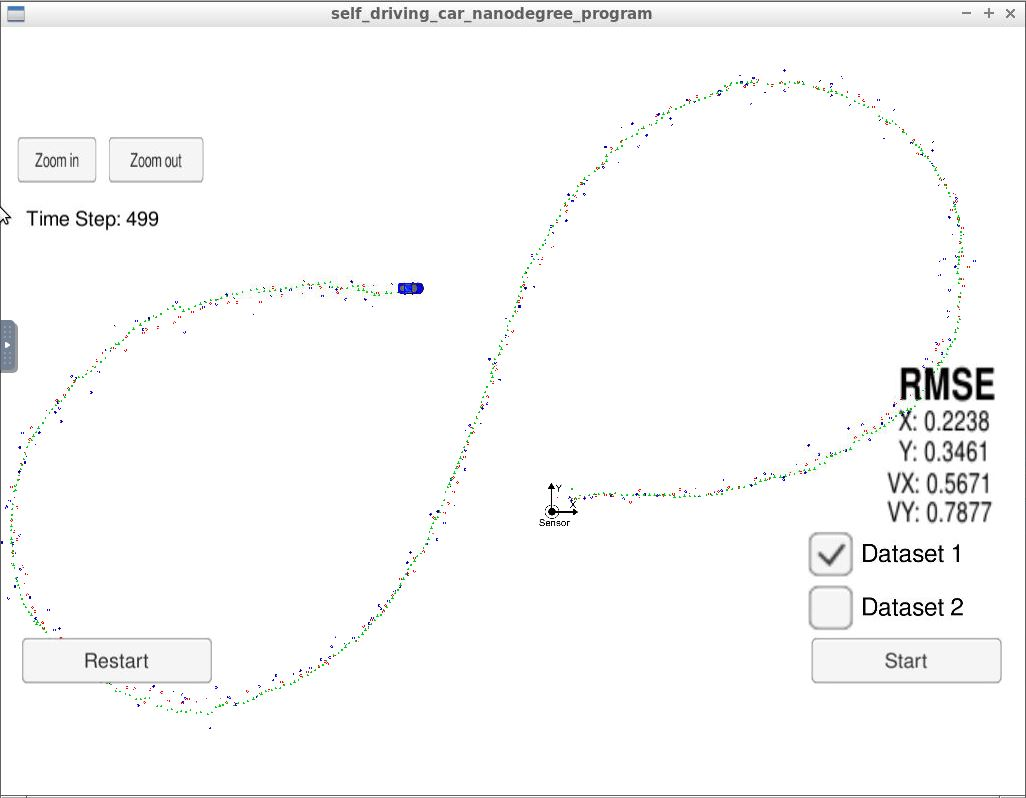
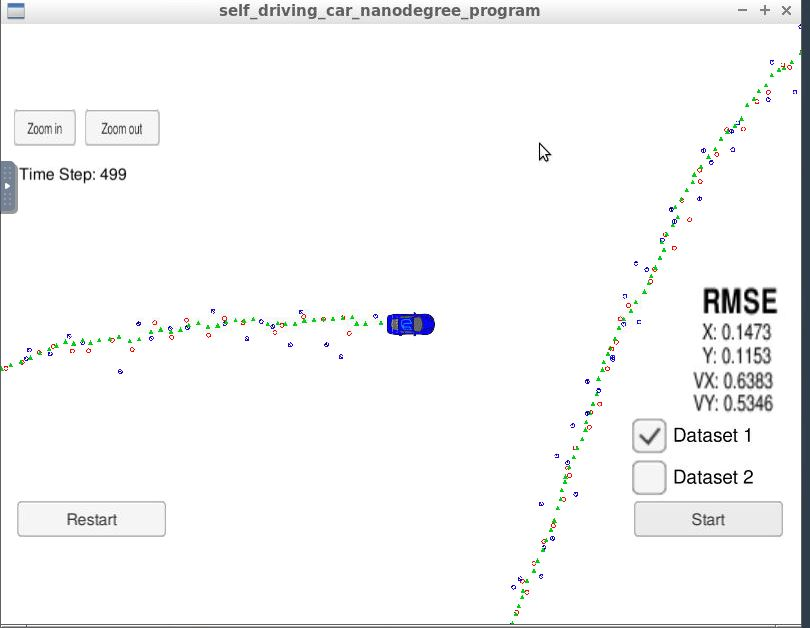
Added function for common update, divide by zero

diff --git a/src/kalman_filter.cpp b/src/kalman_filter.cpp
@@ -1,5 +1,8 @@
 #include "kalman_filter.h"
 #include <cmath>
+#include<algorithm> 
+
+
 
 using Eigen::MatrixXd;
 using Eigen::VectorXd;
@@ -38,17 +41,7 @@ void KalmanFilter::Update(const VectorXd &z) {
    */
   VectorXd z_pred = H_ * x_;				//predicted measurement based on existing position x and measurement matrix
   VectorXd y = z - z_pred;						//difference in actual measurement and predicted measurement  MatrixXd Ht  = H_.transpose()
-  MatrixXd Ht = H_.transpose();
-  MatrixXd S = H_ * P_ * Ht + R_;
-  MatrixXd Si = S.inverse();
-  MatrixXd PHt = P_ * Ht;
-  MatrixXd K = PHt * Si;
-
-  //new estimate
-  x_ = x_ + (K * y);
-  long x_size = x_.size();
-  MatrixXd I = MatrixXd::Identity(x_size, x_size);
-  P_ = (I - K * H_) * P_;
+  UpdateCommon(y);
 }
 
 void KalmanFilter::UpdateEKF(const VectorXd &z) {
@@ -57,29 +50,37 @@ void KalmanFilter::UpdateEKF(const VectorXd &z) {
    */
 
   // transfer x' to polar coordinates
+  float  eps = 0.0001;
   float  rho = sqrt(x_(0)*x_(0) + x_(1)*x_(1));
+  if (std::abs(x_(0)) < 0.0001){
+    x_(0) = eps;
+  }
+     
   float  theta = atan2(x_(1) , x_(0));
-  float  rho_dot = (x_(0)*x_(2)+x_(1)*x_(3))  / rho;
+  float  rho_dot = (x_(0)*x_(2)+x_(1)*x_(3)) / std::max(eps, rho);
   VectorXd h_Of_X = VectorXd(3); 
   h_Of_X << rho, theta, rho_dot;
   VectorXd y = z - h_Of_X;
   //make sure transformation vector is between -pi and pi
-  while (y(1)>M_PI || y(1) < -M_PI) {
-        if (y(1) > M_PI) {
-            y(1) -= 2 * M_PI;
-        }
-        if (y(1) < -M_PI) {
-            y(1) += 2 * M_PI;
-        }
+  NormalizeAngle(y(1));  
+  UpdateCommon(y);
+}
+void KalmanFilter::UpdateCommon(const VectorXd& y){
+  const MatrixXd PHt = P_ * H_.transpose();
+  const MatrixXd S = H_ * PHt + R_;
+  const MatrixXd K = PHt * S.inverse();
+
+  x_ += K * y;
+  P_ -= K * H_ * P_;
+}
+void KalmanFilter::NormalizeAngle(double& phi){
+  //phi = atan2(sin(phi), cos(phi));
+  while (phi>M_PI || phi < -M_PI) {
+    if (phi > M_PI) {
+      phi -= 2 * M_PI;
+    }
+    if (phi < -M_PI) {
+      phi += 2 * M_PI;
+    }
   }
-  MatrixXd Ht = H_.transpose();
-  MatrixXd S = H_ * P_ * Ht + R_;
-  MatrixXd Si = S.inverse();
-  MatrixXd PHt = P_ * Ht;
-  MatrixXd K = PHt * Si;  
-  long x_size = x_.size();
-  MatrixXd I = MatrixXd::Identity(x_size,x_size);
-  //new estimate
-  x_ = x_ + K * y;
-  P_ = (I-K*H_)*P_; 
 }

diff --git a/src/FusionEKF.cpp b/src/FusionEKF.cpp
@@ -54,11 +54,7 @@ FusionEKF::FusionEKF() {
              0, 0, 1000, 0,
              0, 0, 0, 1000;
   
-  ekf_.F_ = MatrixXd(4, 4);
-  ekf_.F_ << 1, 0, 1, 0,
-             0, 1, 0, 1,
-             0, 0, 1, 0,
-             0, 0, 0, 1;
+  ekf_.F_ = MatrixXd::Identity(4,4);
 }
 
 /**
@@ -72,7 +68,7 @@ void FusionEKF::ProcessMeasurement(const MeasurementPackage &measurement_pack) {
    */
     //implement control flow to deactivate Radar or Lidar
   int use_Lidar = 1;
-  int use_Radar = 0;
+  int use_Radar = 1;
   
   if (!is_initialized_) {
     /**
@@ -172,7 +168,7 @@ void FusionEKF::ProcessMeasurement(const MeasurementPackage &measurement_pack) {
     ekf_.R_ = R_radar_;
     ekf_.UpdateEKF(measurement_pack.raw_measurements_);
     
-  } else if ( use_Lidar == 1) {
+  } else if (measurement_pack.sensor_type_ == MeasurementPackage::LASER && use_Lidar == 1) {
     // TODO: Laser updates
     ekf_.H_ = H_laser_;
     ekf_.R_ = R_laser_;

diff --git a/src/kalman_filter.h b/src/kalman_filter.h
@@ -37,6 +37,7 @@ class KalmanFilter {
    * Updates the state by using standard Kalman Filter equations
    * @param z The measurement at k+1
    */
+  void UpdateCommon(const Eigen::VectorXd& y);
   void Update(const Eigen::VectorXd &z);
 
   /**
@@ -44,6 +45,11 @@ class KalmanFilter {
    * @param z The measurement at k+1
    */
   void UpdateEKF(const Eigen::VectorXd &z);
+  
+    /**
+   * A helper method to normalize angle between -pi and pi.
+   */
+  void NormalizeAngle(double& phi);
 
   // state vector
   Eigen::VectorXd x_;

diff --git a/src/tools.cpp b/src/tools.cpp
@@ -77,8 +77,8 @@ MatrixXd Tools::CalculateJacobian(const VectorXd& x_state) {
   
   // check division by zero
   if (fabs(px2py2) < 0.0001) {
-    std::cout << "CalculateJacobian () - Error - Division by Zero" << std::endl;
-    return Hj;
+    float  eps = 0.0001;
+    px2py2 = eps;
   }
   
   float J31 = py*(vx*py-vy*px)/pow(px2py2,(3.0/2.0));

diff --git a/src/tools.h b/src/tools.h
@@ -26,6 +26,8 @@ class Tools {
    * A helper method to calculate Jacobians.
    */
   Eigen::MatrixXd CalculateJacobian(const Eigen::VectorXd& x_state);
+  
+
 
 };
 

diff --git a/WriteupTemplateProject5.md b/WriteupTemplateProject5.md
@@ -55,8 +55,8 @@ Control flow checks were not abundant as control loops were minimized and exited
 # [Suggestions to Make Your Project Stand Out!]
 To inviestage how the radar and lidar impacted the the state prediction each was setup to be turned off.
 
-The RMSE results for the Radar alone were: Forwards: [1.2298, 1.0302, 0.9585, 1.1485] Shown in ![alt text][image3]
+The RMSE results for the Radar alone were: Forwards: [0.2238, 0.3461, 0.5671, 0.7877] Shown in ![alt text][image3]
 
-The RMSE results for the lidar alone were: Forwards: [0.2238, 0.3461, 0.5671, 0.7877] Shown in ![alt text][image4]
+The RMSE results for the Lidar alone were: Forwards: [0.1473, 0.1153, 0.6383, 0.5346] Shown in ![alt text][image4]
 
 Compared to the results of the radar, the Lidar is more accurate at predicting location.  The fusion of both sensors results in a much better position and velocity estimation.  Neither sensor on it's own meets any of the given acceptability criteria. 
